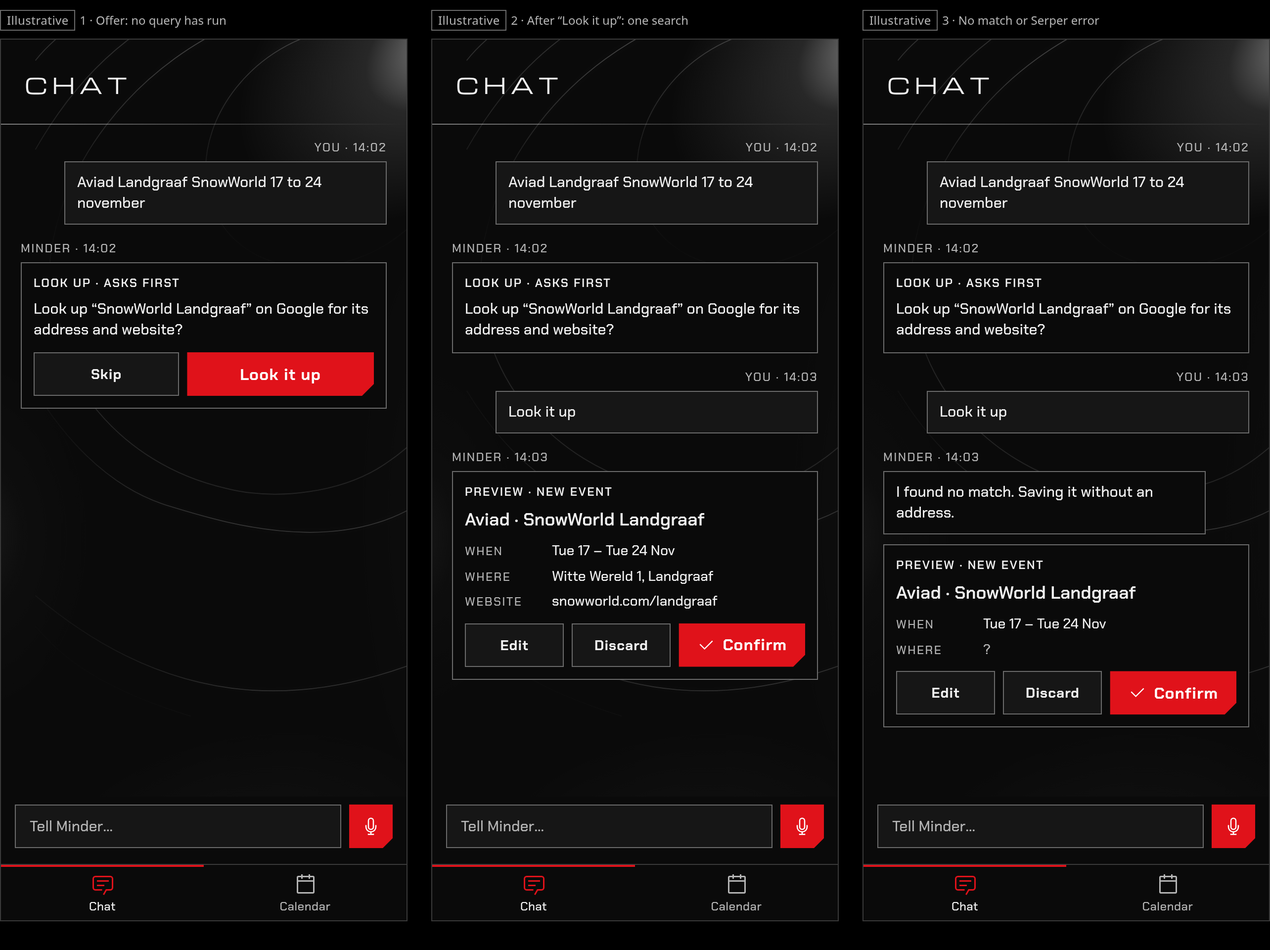
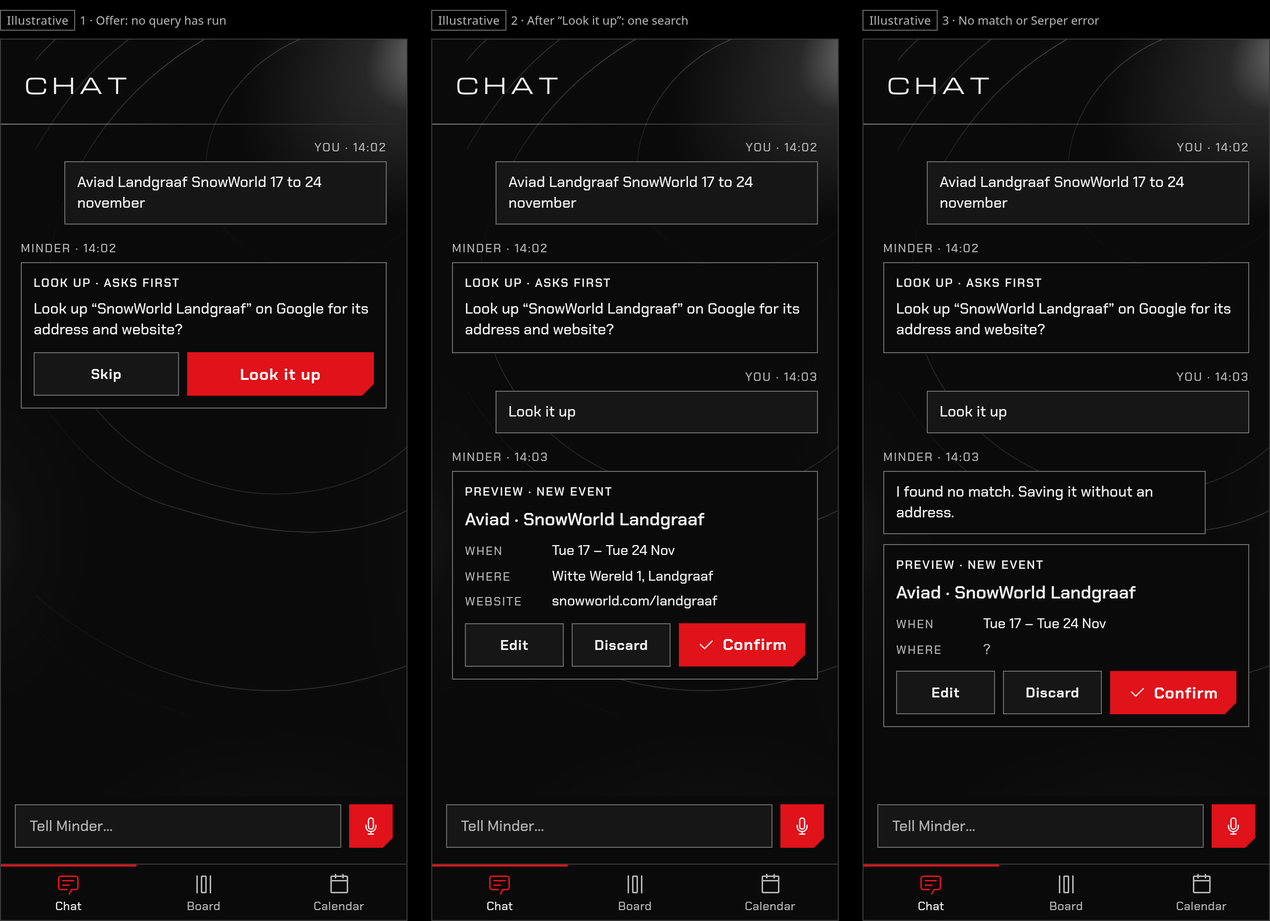
Replace the old Board mockup with the implemented board and add the Board tab to the bar mockups

diff --git a/docs/mockups/board.html b/docs/mockups/board.html
@@ -1,16 +1,17 @@
-<!doctype html><html lang="en"><head><meta charset="utf-8"><title>Minder · Board</title><link rel="stylesheet" href="common.css"></head><body><div class="page">
-<div class="ph"><div class="st"><span>07:30 · Wed 11 Nov</span><span class="demo">Illustrative</span></div>
-<div class="body">
-<div class="hd"><div class="ttl">Board</div><div class="ibtn"><i class="cb i-gear"></i></div></div>
-<div style="padding:12px 20px;display:flex;align-items:center;justify-content:space-between"><span class="chip">Filter<span class="dimt">· 0 active</span></span><span class="mut">13 items</span></div>
-<div style="padding:0 20px 12px"><div class="seg"><span class="on">To do 8</span><span>Doing 2</span><span>Done 3</span></div></div>
-<div class="kc od" style="margin:0 20px 8px"><div class="t">Pay tax bill</div><small>Mon 9 Nov 17:00<span class="pill od" style="margin-left:8px">Overdue 2 days</span></small><span class="lbl c-amber">Admin</span><div class="mvl" style="position:absolute;right:4px;bottom:4px"><i class="cb i-move"></i>Move to…</div></div>
-<div class="kc" style="margin:0 20px 8px"><div class="t">Call dentist</div><small>Wed 11 Nov 09:00</small><span class="lbl c-blue">Health</span><div class="mv"><i class="cb i-move"></i></div></div>
-<div class="kc" style="margin:0 20px 8px"><div class="t">Take out trash</div><small>Wed 11 Nov 17:00</small><span class="lbl c-green">Home</span><div class="mv"><i class="cb i-move"></i></div></div>
-<div class="kc" style="margin:0 20px 8px"><div class="t">Book flights to Lisbon</div><small>Wed 11 Nov 18:00</small><span class="lbl c-teal">Trip</span><div class="mv"><i class="cb i-move"></i></div></div>
-<div class="kc" style="margin:0 20px 8px"><div class="t">Buy card for Mum</div><small>Wed 11 Nov · All day</small><span class="lbl c-lilac">Family</span><div class="mv"><i class="cb i-move"></i></div></div>
-<div class="kc" style="margin:0 20px 8px"><div class="t">Book hotel</div><small>Sat 14 Nov 18:00</small><span class="lbl c-teal">Trip</span><div class="mv"><i class="cb i-move"></i></div></div>
-</div>
-<div class="cap"><div class="in">Tell Minder…</div><div class="mic"><i class="cb i-mic"></i></div></div>
-<div class="nav"><div><i class="cb i-home"></i>Today</div><div class="on"><i class="cb i-board"></i>Board</div><div><i class="cb i-cal"></i>Calendar</div><div><i class="cb i-list"></i>Lists</div></div></div>
-</div></body></html>
+<!doctype html>
+<html lang="en"><head><meta charset="utf-8"><meta name="viewport" content="width=device-width,initial-scale=1"><title>Minder · Board</title><link rel="stylesheet" href="common.css"></head>
+<body><div class="page"><div><div style="padding:8px 0"><span class="demo">Illustrative</span> <span class="note">1 · To pick up: add a task, then Start</span></div><div class="calendar-layout orbit-surface" aria-label="Board example"><svg xmlns="http://www.w3.org/2000/svg" viewBox="0 0 462 868" class="orbit-artwork orbit-calendar" preserveAspectRatio="xMidYMin slice" aria-hidden="true">
+<title>Minder calendar orbital artwork</title>
+<desc>Authored Bezier traces of visible curves in the approved Orbital reference. Travel highlights along the paths; keep the composition fixed.</desc>
+<defs><radialGradient id="atmosphere"><stop stop-color="#f2f2f2" stop-opacity="1" /><stop offset=".4" stop-color="#f2f2f2" stop-opacity=".22" /><stop offset="1" stop-color="#f2f2f2" stop-opacity="0" /></radialGradient><linearGradient id="edge-0" x1="0" y1="0" x2="0" y2="868" gradientUnits="userSpaceOnUse"><stop offset="0" stop-color="#f2f2f2" stop-opacity="0.168" /><stop offset="0.18" stop-color="#f2f2f2" stop-opacity="0.008" /><stop offset="0.45" stop-color="#f2f2f2" stop-opacity="0.032" /><stop offset="0.58" stop-color="#f2f2f2" stop-opacity="0.22" /><stop offset="0.68" stop-color="#f2f2f2" stop-opacity="0.14" /><stop offset="0.75" stop-color="#f2f2f2" stop-opacity="0.032" /><stop offset="1" stop-color="#f2f2f2" stop-opacity="0.04" /></linearGradient><linearGradient id="edge-1" x1="0" y1="0" x2="0" y2="868" gradientUnits="userSpaceOnUse"><stop offset="0" stop-color="#f2f2f2" stop-opacity="0.16" /><stop offset="0.22" stop-color="#f2f2f2" stop-opacity="0.02" /><stop offset="0.75" stop-color="#f2f2f2" stop-opacity="0.008" /><stop offset="0.95" stop-color="#f2f2f2" stop-opacity="0.168" /><stop offset="1" stop-color="#f2f2f2" stop-opacity="0.088" /></linearGradient><linearGradient id="edge-2" x1="0" y1="0" x2="0" y2="868" gradientUnits="userSpaceOnUse"><stop offset="0" stop-color="#f2f2f2" stop-opacity="0.24" /><stop offset="0.2" stop-color="#f2f2f2" stop-opacity="0.01" /><stop offset="0.39" stop-color="#f2f2f2" stop-opacity="0.12" /><stop offset="0.52" stop-color="#f2f2f2" stop-opacity="0.112" /><stop offset="0.6" stop-color="#f2f2f2" stop-opacity="0.016" /><stop offset="1" stop-color="#f2f2f2" stop-opacity="0.004" /></linearGradient><linearGradient id="edge-3" x1="0" y1="0" x2="0" y2="868" gradientUnits="userSpaceOnUse"><stop offset="0" stop-color="#f2f2f2" stop-opacity="0.2" /><stop offset="0.12" stop-color="#f2f2f2" stop-opacity="0.08" /><stop offset="0.24" stop-color="#f2f2f2" stop-opacity="0.008" /><stop offset="0.28" stop-color="#f2f2f2" stop-opacity="0.052" /><stop offset="0.34" stop-color="#f2f2f2" stop-opacity="0.032" /><stop offset="0.4" stop-color="#f2f2f2" stop-opacity="0.004" /><stop offset="1" stop-color="#f2f2f2" stop-opacity="0" /></linearGradient><filter id="edge-softness" x="-30%" y="-30%" width="160%" height="160%"><feGaussianBlur stdDeviation="3.5" /></filter><linearGradient id="edge-4" x1="0" y1="0" x2="462" y2="0" gradientUnits="userSpaceOnUse"><stop offset="0" stop-color="#f2f2f2" stop-opacity="0.02" /><stop offset="0.28" stop-color="#f2f2f2" stop-opacity="0.048" /><stop offset="0.6" stop-color="#f2f2f2" stop-opacity="0.168" /><stop offset="1" stop-color="#f2f2f2" stop-opacity="0.14" /></linearGradient></defs>
+<rect width="462" height="868" fill="#0a0a0a" />
+<g id="atmosphere-lights"><ellipse cx="475" cy="0" rx="235" ry="145" transform="rotate(-35 475 0)" fill="url(#atmosphere)" opacity="0.58" /><ellipse cx="5" cy="490" rx="120" ry="180" transform="rotate(0 5 490)" fill="url(#atmosphere)" opacity="0.07" /><ellipse cx="275" cy="820" rx="220" ry="140" transform="rotate(-12 275 820)" fill="url(#atmosphere)" opacity=".10" /><ellipse cx="475" cy="470" rx="100" ry="320" transform="rotate(0 475 470)" fill="url(#atmosphere)" opacity="0.045" /></g>
+<g id="edge-glow" filter="url(#edge-softness)" opacity=".16" stroke-width="2"><use href="#track-0" /><use href="#track-1" /><use href="#track-2" /><use href="#track-3" /><use href="#track-4" /></g><g id="tracks" stroke-width=".85"><path id="track-0" d="M 97 0 C 60 22 23 48 0 80 M 0 477 C 27 525 74 591 145 615 C 216 639 367 690 462 574" fill="none" stroke="url(#edge-0)" /><path id="track-1" d="M 207 0 C 137 18 61 70 0 187 M 0 760 C 30 799 72 835 170 868" fill="none" stroke="url(#edge-1)" /><path id="track-2" d="M 462 85 C 417 25 335 -5 244 25 C 111 76 15 214 15 345 C 15 458 92 565 208 594 C 265 610 337 599 383 565 C 416 541 443 508 462 477" fill="none" stroke="url(#edge-2)" /><path id="track-3" d="M 463.447 147.060 C 469.336 223.763 412.221 302.715 335.877 323.404 C 259.533 344.093 192.871 298.686 186.982 221.983 C 181.093 145.280 238.208 66.329 314.552 45.639 C 390.896 24.950 457.559 70.357 463.447 147.060 Z" fill="none" stroke="url(#edge-3)" /><path id="track-4" d="M 0 723.132 C 154 865.851 308 862.231 462 782.953" fill="none" stroke="url(#edge-4)" /></g>
+<g class="orbit-travel"><path id="travel-calendar-0" d="M 97 0 C 60 22 23 48 0 80 M 0 477 C 27 525 74 591 145 615 C 216 639 367 690 462 574" fill="none" stroke="#f2f2f2" stroke-width="1.1" opacity=".128" pathLength="1000" stroke-dasharray="35 965" style="animation-delay:-0s" /><path id="travel-calendar-1" d="M 207 0 C 137 18 61 70 0 187 M 0 760 C 30 799 72 835 170 868" fill="none" stroke="#f2f2f2" stroke-width="1.1" opacity=".128" pathLength="1000" stroke-dasharray="35 965" style="animation-delay:-36s" /><path id="travel-calendar-2" d="M 462 85 C 417 25 335 -5 244 25 C 111 76 15 214 15 345 C 15 458 92 565 208 594 C 265 610 337 599 383 565 C 416 541 443 508 462 477" fill="none" stroke="#f2f2f2" stroke-width="1.1" opacity=".128" pathLength="1000" stroke-dasharray="35 965" style="animation-delay:-72s" /><path id="travel-calendar-3" d="M 463.447 147.060 C 469.336 223.763 412.221 302.715 335.877 323.404 C 259.533 344.093 192.871 298.686 186.982 221.983 C 181.093 145.280 238.208 66.329 314.552 45.639 C 390.896 24.950 457.559 70.357 463.447 147.060 Z" fill="none" stroke="#f2f2f2" stroke-width="1.1" opacity=".128" pathLength="1000" stroke-dasharray="35 965" style="animation-delay:-108s" /><path id="travel-calendar-4" d="M 0 723.132 C 154 865.851 308 862.231 462 782.953" fill="none" stroke="#f2f2f2" stroke-width="1.1" opacity=".128" pathLength="1000" stroke-dasharray="35 965" style="animation-delay:-144s" /></g></svg><div class="screen-header"><div class="screen-title">BOARD</div></div><div class="board-tabs"><span class="on"><b>To pick up</b><i>3</i></span><span class=""><b>In progress</b><i>1</i></span><span class=""><b>Done</b><i>1</i></span></div><div class="board-add">Add a task</div><div class="board-card"><span class="board-stripe c-slate"></span><div class="board-body"><div class="board-title">Call plumber</div><div class=board-facts><span>Priority 1</span><span>House</span></div><div class="board-act"><span class="cal-control">Start</span></div></div></div><div class="board-card"><span class="board-stripe c-slate"></span><div class="board-body"><div class="board-title">Order a new bike light</div><div class="board-act"><span class="cal-control">Start</span></div></div></div><div class="board-card"><span class="board-stripe c-teal"></span><div class="board-body"><div class="board-title">Ask the landlord about the broken window latch</div><div class=board-facts><span>Priority 3</span><span class="bell">Fri 20 Nov 09:00</span></div><div class="board-act"><span class="cal-control">Start</span></div></div></div><div class="nav three"><div><i class="cb i-chat"></i>Chat</div><div class="on"><i class="cb i-board"></i>Board</div><div><i class="cb i-cal"></i>Calendar</div></div></div></div><div><div style="padding:8px 0"><span class="demo">Illustrative</span> <span class="note">2 · In progress: after Start, with Undo</span></div><div class="calendar-layout orbit-surface" aria-label="Board example"><svg xmlns="http://www.w3.org/2000/svg" viewBox="0 0 462 868" class="orbit-artwork orbit-calendar" preserveAspectRatio="xMidYMin slice" aria-hidden="true">
+<title>Minder calendar orbital artwork</title>
+<desc>Authored Bezier traces of visible curves in the approved Orbital reference. Travel highlights along the paths; keep the composition fixed.</desc>
+<defs><radialGradient id="atmosphere"><stop stop-color="#f2f2f2" stop-opacity="1" /><stop offset=".4" stop-color="#f2f2f2" stop-opacity=".22" /><stop offset="1" stop-color="#f2f2f2" stop-opacity="0" /></radialGradient><linearGradient id="edge-0" x1="0" y1="0" x2="0" y2="868" gradientUnits="userSpaceOnUse"><stop offset="0" stop-color="#f2f2f2" stop-opacity="0.168" /><stop offset="0.18" stop-color="#f2f2f2" stop-opacity="0.008" /><stop offset="0.45" stop-color="#f2f2f2" stop-opacity="0.032" /><stop offset="0.58" stop-color="#f2f2f2" stop-opacity="0.22" /><stop offset="0.68" stop-color="#f2f2f2" stop-opacity="0.14" /><stop offset="0.75" stop-color="#f2f2f2" stop-opacity="0.032" /><stop offset="1" stop-color="#f2f2f2" stop-opacity="0.04" /></linearGradient><linearGradient id="edge-1" x1="0" y1="0" x2="0" y2="868" gradientUnits="userSpaceOnUse"><stop offset="0" stop-color="#f2f2f2" stop-opacity="0.16" /><stop offset="0.22" stop-color="#f2f2f2" stop-opacity="0.02" /><stop offset="0.75" stop-color="#f2f2f2" stop-opacity="0.008" /><stop offset="0.95" stop-color="#f2f2f2" stop-opacity="0.168" /><stop offset="1" stop-color="#f2f2f2" stop-opacity="0.088" /></linearGradient><linearGradient id="edge-2" x1="0" y1="0" x2="0" y2="868" gradientUnits="userSpaceOnUse"><stop offset="0" stop-color="#f2f2f2" stop-opacity="0.24" /><stop offset="0.2" stop-color="#f2f2f2" stop-opacity="0.01" /><stop offset="0.39" stop-color="#f2f2f2" stop-opacity="0.12" /><stop offset="0.52" stop-color="#f2f2f2" stop-opacity="0.112" /><stop offset="0.6" stop-color="#f2f2f2" stop-opacity="0.016" /><stop offset="1" stop-color="#f2f2f2" stop-opacity="0.004" /></linearGradient><linearGradient id="edge-3" x1="0" y1="0" x2="0" y2="868" gradientUnits="userSpaceOnUse"><stop offset="0" stop-color="#f2f2f2" stop-opacity="0.2" /><stop offset="0.12" stop-color="#f2f2f2" stop-opacity="0.08" /><stop offset="0.24" stop-color="#f2f2f2" stop-opacity="0.008" /><stop offset="0.28" stop-color="#f2f2f2" stop-opacity="0.052" /><stop offset="0.34" stop-color="#f2f2f2" stop-opacity="0.032" /><stop offset="0.4" stop-color="#f2f2f2" stop-opacity="0.004" /><stop offset="1" stop-color="#f2f2f2" stop-opacity="0" /></linearGradient><filter id="edge-softness" x="-30%" y="-30%" width="160%" height="160%"><feGaussianBlur stdDeviation="3.5" /></filter><linearGradient id="edge-4" x1="0" y1="0" x2="462" y2="0" gradientUnits="userSpaceOnUse"><stop offset="0" stop-color="#f2f2f2" stop-opacity="0.02" /><stop offset="0.28" stop-color="#f2f2f2" stop-opacity="0.048" /><stop offset="0.6" stop-color="#f2f2f2" stop-opacity="0.168" /><stop offset="1" stop-color="#f2f2f2" stop-opacity="0.14" /></linearGradient></defs>
+<rect width="462" height="868" fill="#0a0a0a" />
+<g id="atmosphere-lights"><ellipse cx="475" cy="0" rx="235" ry="145" transform="rotate(-35 475 0)" fill="url(#atmosphere)" opacity="0.58" /><ellipse cx="5" cy="490" rx="120" ry="180" transform="rotate(0 5 490)" fill="url(#atmosphere)" opacity="0.07" /><ellipse cx="275" cy="820" rx="220" ry="140" transform="rotate(-12 275 820)" fill="url(#atmosphere)" opacity=".10" /><ellipse cx="475" cy="470" rx="100" ry="320" transform="rotate(0 475 470)" fill="url(#atmosphere)" opacity="0.045" /></g>
+<g id="edge-glow" filter="url(#edge-softness)" opacity=".16" stroke-width="2"><use href="#track-0" /><use href="#track-1" /><use href="#track-2" /><use href="#track-3" /><use href="#track-4" /></g><g id="tracks" stroke-width=".85"><path id="track-0" d="M 97 0 C 60 22 23 48 0 80 M 0 477 C 27 525 74 591 145 615 C 216 639 367 690 462 574" fill="none" stroke="url(#edge-0)" /><path id="track-1" d="M 207 0 C 137 18 61 70 0 187 M 0 760 C 30 799 72 835 170 868" fill="none" stroke="url(#edge-1)" /><path id="track-2" d="M 462 85 C 417 25 335 -5 244 25 C 111 76 15 214 15 345 C 15 458 92 565 208 594 C 265 610 337 599 383 565 C 416 541 443 508 462 477" fill="none" stroke="url(#edge-2)" /><path id="track-3" d="M 463.447 147.060 C 469.336 223.763 412.221 302.715 335.877 323.404 C 259.533 344.093 192.871 298.686 186.982 221.983 C 181.093 145.280 238.208 66.329 314.552 45.639 C 390.896 24.950 457.559 70.357 463.447 147.060 Z" fill="none" stroke="url(#edge-3)" /><path id="track-4" d="M 0 723.132 C 154 865.851 308 862.231 462 782.953" fill="none" stroke="url(#edge-4)" /></g>
+<g class="orbit-travel"><path id="travel-calendar-0" d="M 97 0 C 60 22 23 48 0 80 M 0 477 C 27 525 74 591 145 615 C 216 639 367 690 462 574" fill="none" stroke="#f2f2f2" stroke-width="1.1" opacity=".128" pathLength="1000" stroke-dasharray="35 965" style="animation-delay:-0s" /><path id="travel-calendar-1" d="M 207 0 C 137 18 61 70 0 187 M 0 760 C 30 799 72 835 170 868" fill="none" stroke="#f2f2f2" stroke-width="1.1" opacity=".128" pathLength="1000" stroke-dasharray="35 965" style="animation-delay:-36s" /><path id="travel-calendar-2" d="M 462 85 C 417 25 335 -5 244 25 C 111 76 15 214 15 345 C 15 458 92 565 208 594 C 265 610 337 599 383 565 C 416 541 443 508 462 477" fill="none" stroke="#f2f2f2" stroke-width="1.1" opacity=".128" pathLength="1000" stroke-dasharray="35 965" style="animation-delay:-72s" /><path id="travel-calendar-3" d="M 463.447 147.060 C 469.336 223.763 412.221 302.715 335.877 323.404 C 259.533 344.093 192.871 298.686 186.982 221.983 C 181.093 145.280 238.208 66.329 314.552 45.639 C 390.896 24.950 457.559 70.357 463.447 147.060 Z" fill="none" stroke="#f2f2f2" stroke-width="1.1" opacity=".128" pathLength="1000" stroke-dasharray="35 965" style="animation-delay:-108s" /><path id="travel-calendar-4" d="M 0 723.132 C 154 865.851 308 862.231 462 782.953" fill="none" stroke="#f2f2f2" stroke-width="1.1" opacity=".128" pathLength="1000" stroke-dasharray="35 965" style="animation-delay:-144s" /></g></svg><div class="screen-header"><div class="screen-title">BOARD</div></div><div class="board-tabs"><span class=""><b>To pick up</b><i>2</i></span><span class="on"><b>In progress</b><i>2</i></span><span class=""><b>Done</b><i>1</i></span></div><div class="board-card"><span class="board-stripe c-slate"></span><div class="board-body"><div class="board-title">Call plumber</div><div class=board-facts><span>Priority 1</span><span>House</span></div><div class="board-act"><span class="cal-control">Done</span></div></div></div><div class="board-card"><span class="board-stripe c-amber"></span><div class="board-body"><div class="board-title">Renew passport</div><div class="board-act"><span class="cal-control">Done</span></div></div></div><div class="board-snack"><span>Moved to In progress</span><b>Undo</b></div><div class="nav three"><div><i class="cb i-chat"></i>Chat</div><div class="on"><i class="cb i-board"></i>Board</div><div><i class="cb i-cal"></i>Calendar</div></div></div></div></div></body></html>

diff --git a/docs/mockups/place-lookup.html b/docs/mockups/place-lookup.html
@@ -19,7 +19,7 @@
 <div class="body"><div class="screen-header"><div class="screen-title">CHAT</div></div><div class="who me"><span>You · 14:02</span></div><div class="m me">Aviad Landgraaf SnowWorld 17 to 24 november</div><div class="who"><span>Minder · 14:02</span></div>
 <div class="card" style="margin:0 20px;background:var(--void)"><div class="lab">Look up · asks first</div><div style="font-size:15px;line-height:1.4;margin:8px 0 12px">Look up <q>SnowWorld Landgraaf</q> on Google for its address and website?</div><div class="btns"><div class="btn-2" style="height:44px">Skip</div><div class="btn-p" style="flex:1.3;height:44px">Look it up</div></div></div></div>
 <div class="cap composer"><div class="in">Tell Minder…</div><div class="mic"><i class="cb i-mic"></i></div></div>
-<div class="nav two"><div class="on"><i class="cb i-chat"></i>Chat</div><div><i class="cb i-cal"></i>Calendar</div></div></div></div><div><div style="padding:8px 0"><span class="demo">Illustrative</span> <span class="note">2 · After “Look it up”: one search</span></div><div class="ph orbit-surface"><svg xmlns="http://www.w3.org/2000/svg" viewBox="0 0 462 868" class="orbit-artwork orbit-chat" preserveAspectRatio="xMidYMin slice" aria-hidden="true">
+<div class="nav three"><div class="on"><i class="cb i-chat"></i>Chat</div><div><i class="cb i-board"></i>Board</div><div><i class="cb i-cal"></i>Calendar</div></div></div></div><div><div style="padding:8px 0"><span class="demo">Illustrative</span> <span class="note">2 · After “Look it up”: one search</span></div><div class="ph orbit-surface"><svg xmlns="http://www.w3.org/2000/svg" viewBox="0 0 462 868" class="orbit-artwork orbit-chat" preserveAspectRatio="xMidYMin slice" aria-hidden="true">
 <title>Minder chat orbital artwork</title>
 <desc>Authored Bezier traces of visible curves in the approved Orbital reference. Travel highlights along the paths; keep the composition fixed.</desc>
 <defs><radialGradient id="atmosphere"><stop stop-color="#f2f2f2" stop-opacity="1" /><stop offset=".4" stop-color="#f2f2f2" stop-opacity=".22" /><stop offset="1" stop-color="#f2f2f2" stop-opacity="0" /></radialGradient><linearGradient id="edge-0" x1="0" y1="0" x2="0" y2="868" gradientUnits="userSpaceOnUse"><stop offset="0" stop-color="#f2f2f2" stop-opacity="0.168" /><stop offset="0.18" stop-color="#f2f2f2" stop-opacity="0.008" /><stop offset="0.45" stop-color="#f2f2f2" stop-opacity="0.032" /><stop offset="0.58" stop-color="#f2f2f2" stop-opacity="0.22" /><stop offset="0.68" stop-color="#f2f2f2" stop-opacity="0.14" /><stop offset="0.75" stop-color="#f2f2f2" stop-opacity="0.032" /><stop offset="1" stop-color="#f2f2f2" stop-opacity="0.04" /></linearGradient><linearGradient id="edge-1" x1="0" y1="0" x2="0" y2="868" gradientUnits="userSpaceOnUse"><stop offset="0" stop-color="#f2f2f2" stop-opacity="0.16" /><stop offset="0.22" stop-color="#f2f2f2" stop-opacity="0.02" /><stop offset="0.75" stop-color="#f2f2f2" stop-opacity="0.008" /><stop offset="0.95" stop-color="#f2f2f2" stop-opacity="0.168" /><stop offset="1" stop-color="#f2f2f2" stop-opacity="0.088" /></linearGradient><linearGradient id="edge-2" x1="0" y1="0" x2="0" y2="868" gradientUnits="userSpaceOnUse"><stop offset="0" stop-color="#f2f2f2" stop-opacity="0.24" /><stop offset="0.2" stop-color="#f2f2f2" stop-opacity="0.01" /><stop offset="0.39" stop-color="#f2f2f2" stop-opacity="0.12" /><stop offset="0.52" stop-color="#f2f2f2" stop-opacity="0.112" /><stop offset="0.6" stop-color="#f2f2f2" stop-opacity="0.016" /><stop offset="1" stop-color="#f2f2f2" stop-opacity="0.004" /></linearGradient><linearGradient id="edge-3" x1="0" y1="0" x2="0" y2="868" gradientUnits="userSpaceOnUse"><stop offset="0" stop-color="#f2f2f2" stop-opacity="0.2" /><stop offset="0.12" stop-color="#f2f2f2" stop-opacity="0.08" /><stop offset="0.24" stop-color="#f2f2f2" stop-opacity="0.008" /><stop offset="0.28" stop-color="#f2f2f2" stop-opacity="0.052" /><stop offset="0.34" stop-color="#f2f2f2" stop-opacity="0.032" /><stop offset="0.4" stop-color="#f2f2f2" stop-opacity="0.004" /><stop offset="1" stop-color="#f2f2f2" stop-opacity="0" /></linearGradient><filter id="edge-softness" x="-30%" y="-30%" width="160%" height="160%"><feGaussianBlur stdDeviation="3.5" /></filter><linearGradient id="edge-4" x1="0" y1="0" x2="462" y2="0" gradientUnits="userSpaceOnUse"><stop offset="0" stop-color="#f2f2f2" stop-opacity="0.02" /><stop offset="0.28" stop-color="#f2f2f2" stop-opacity="0.048" /><stop offset="0.6" stop-color="#f2f2f2" stop-opacity="0.168" /><stop offset="1" stop-color="#f2f2f2" stop-opacity="0.14" /></linearGradient></defs>
@@ -36,7 +36,7 @@
 <div class="kv"><span>When</span><span>Tue 17 – Tue 24 Nov</span><span>Where</span><span>Witte Wereld 1, Landgraaf</span><span>Website</span><span>snowworld.com/landgraaf</span></div>
 <div class="btns"><div class="btn-2" style="height:44px">Edit</div><div class="btn-2" style="height:44px">Discard</div><div class="btn-p" style="flex:1.3;height:44px"><i class="cb i-check"></i>Confirm</div></div></div></div>
 <div class="cap composer"><div class="in">Tell Minder…</div><div class="mic"><i class="cb i-mic"></i></div></div>
-<div class="nav two"><div class="on"><i class="cb i-chat"></i>Chat</div><div><i class="cb i-cal"></i>Calendar</div></div></div></div><div><div style="padding:8px 0"><span class="demo">Illustrative</span> <span class="note">3 · No match or Serper error</span></div><div class="ph orbit-surface"><svg xmlns="http://www.w3.org/2000/svg" viewBox="0 0 462 868" class="orbit-artwork orbit-chat" preserveAspectRatio="xMidYMin slice" aria-hidden="true">
+<div class="nav three"><div class="on"><i class="cb i-chat"></i>Chat</div><div><i class="cb i-board"></i>Board</div><div><i class="cb i-cal"></i>Calendar</div></div></div></div><div><div style="padding:8px 0"><span class="demo">Illustrative</span> <span class="note">3 · No match or Serper error</span></div><div class="ph orbit-surface"><svg xmlns="http://www.w3.org/2000/svg" viewBox="0 0 462 868" class="orbit-artwork orbit-chat" preserveAspectRatio="xMidYMin slice" aria-hidden="true">
 <title>Minder chat orbital artwork</title>
 <desc>Authored Bezier traces of visible curves in the approved Orbital reference. Travel highlights along the paths; keep the composition fixed.</desc>
 <defs><radialGradient id="atmosphere"><stop stop-color="#f2f2f2" stop-opacity="1" /><stop offset=".4" stop-color="#f2f2f2" stop-opacity=".22" /><stop offset="1" stop-color="#f2f2f2" stop-opacity="0" /></radialGradient><linearGradient id="edge-0" x1="0" y1="0" x2="0" y2="868" gradientUnits="userSpaceOnUse"><stop offset="0" stop-color="#f2f2f2" stop-opacity="0.168" /><stop offset="0.18" stop-color="#f2f2f2" stop-opacity="0.008" /><stop offset="0.45" stop-color="#f2f2f2" stop-opacity="0.032" /><stop offset="0.58" stop-color="#f2f2f2" stop-opacity="0.22" /><stop offset="0.68" stop-color="#f2f2f2" stop-opacity="0.14" /><stop offset="0.75" stop-color="#f2f2f2" stop-opacity="0.032" /><stop offset="1" stop-color="#f2f2f2" stop-opacity="0.04" /></linearGradient><linearGradient id="edge-1" x1="0" y1="0" x2="0" y2="868" gradientUnits="userSpaceOnUse"><stop offset="0" stop-color="#f2f2f2" stop-opacity="0.16" /><stop offset="0.22" stop-color="#f2f2f2" stop-opacity="0.02" /><stop offset="0.75" stop-color="#f2f2f2" stop-opacity="0.008" /><stop offset="0.95" stop-color="#f2f2f2" stop-opacity="0.168" /><stop offset="1" stop-color="#f2f2f2" stop-opacity="0.088" /></linearGradient><linearGradient id="edge-2" x1="0" y1="0" x2="0" y2="868" gradientUnits="userSpaceOnUse"><stop offset="0" stop-color="#f2f2f2" stop-opacity="0.24" /><stop offset="0.2" stop-color="#f2f2f2" stop-opacity="0.01" /><stop offset="0.39" stop-color="#f2f2f2" stop-opacity="0.12" /><stop offset="0.52" stop-color="#f2f2f2" stop-opacity="0.112" /><stop offset="0.6" stop-color="#f2f2f2" stop-opacity="0.016" /><stop offset="1" stop-color="#f2f2f2" stop-opacity="0.004" /></linearGradient><linearGradient id="edge-3" x1="0" y1="0" x2="0" y2="868" gradientUnits="userSpaceOnUse"><stop offset="0" stop-color="#f2f2f2" stop-opacity="0.2" /><stop offset="0.12" stop-color="#f2f2f2" stop-opacity="0.08" /><stop offset="0.24" stop-color="#f2f2f2" stop-opacity="0.008" /><stop offset="0.28" stop-color="#f2f2f2" stop-opacity="0.052" /><stop offset="0.34" stop-color="#f2f2f2" stop-opacity="0.032" /><stop offset="0.4" stop-color="#f2f2f2" stop-opacity="0.004" /><stop offset="1" stop-color="#f2f2f2" stop-opacity="0" /></linearGradient><filter id="edge-softness" x="-30%" y="-30%" width="160%" height="160%"><feGaussianBlur stdDeviation="3.5" /></filter><linearGradient id="edge-4" x1="0" y1="0" x2="462" y2="0" gradientUnits="userSpaceOnUse"><stop offset="0" stop-color="#f2f2f2" stop-opacity="0.02" /><stop offset="0.28" stop-color="#f2f2f2" stop-opacity="0.048" /><stop offset="0.6" stop-color="#f2f2f2" stop-opacity="0.168" /><stop offset="1" stop-color="#f2f2f2" stop-opacity="0.14" /></linearGradient></defs>
@@ -54,4 +54,4 @@
 <div class="kv"><span>When</span><span>Tue 17 – Tue 24 Nov</span><span>Where</span><span style="color:var(--muted)">?</span></div>
 <div class="btns"><div class="btn-2" style="height:44px">Edit</div><div class="btn-2" style="height:44px">Discard</div><div class="btn-p" style="flex:1.3;height:44px"><i class="cb i-check"></i>Confirm</div></div></div></div>
 <div class="cap composer"><div class="in">Tell Minder…</div><div class="mic"><i class="cb i-mic"></i></div></div>
-<div class="nav two"><div class="on"><i class="cb i-chat"></i>Chat</div><div><i class="cb i-cal"></i>Calendar</div></div></div></div></div></body></html>
+<div class="nav three"><div class="on"><i class="cb i-chat"></i>Chat</div><div><i class="cb i-board"></i>Board</div><div><i class="cb i-cal"></i>Calendar</div></div></div></div></div></body></html>

diff --git a/docs/mockups/common.css b/docs/mockups/common.css
@@ -210,7 +210,7 @@ html,body{margin:0;background:#000}
 .calendar-layout{display:flex;flex-direction:column}
 .calendar-layout > .nav{margin:auto -24px -32px}
 .nav .cb{width:24px;height:24px}
-.nav.two div{padding:8px 0;gap:4px;line-height:12px}
+.nav.two div,.nav.three div{padding:8px 0;gap:4px;line-height:12px}
 
 /* Neutral content actions: shared with the approved Minder guide. */
 .content-action{display:inline-flex;align-items:center;gap:8px;min-height:44px;min-width:44px;padding:0;border:0;border-radius:0;background:transparent;color:var(--text);font:600 14px/1.4 'Chakra Petch',sans-serif;text-align:left;cursor:pointer}
@@ -235,3 +235,24 @@ html,body{margin:0;background:#000}
 .i-up{--u:url(https://cdn.jsdelivr.net/npm/@carbon/icons@11.92.0/svg/32/chevron--up.svg)}
 
 .content-tags{display:flex;gap:8px;flex-wrap:wrap;margin-top:8px}.content-tag{padding:3px 8px;border:1px solid var(--line);color:var(--muted);font-size:12px}
+
+/* Board: tabs, add field, task cards, Undo bar. Mirrors the Flutter BoardScreen under 720 px. */
+.calendar-layout .board-tabs{display:grid;grid-template-columns:repeat(3,minmax(0,1fr));margin-top:16px}
+.calendar-layout .board-tabs span{min-height:56px;display:flex;flex-direction:column;align-items:center;justify-content:center;gap:2px;border-bottom:1px solid var(--line);color:var(--muted)}
+.calendar-layout .board-tabs span.on{border-bottom:2px solid var(--signal);color:var(--text)}
+.calendar-layout .board-tabs b{font-size:12px;font-weight:600}
+.calendar-layout .board-tabs i{font-style:normal;font-size:16px}
+.calendar-layout .board-add{margin-top:16px;min-height:44px;display:flex;align-items:center;padding:0 14px;background:var(--panel);border:1px solid var(--edge);color:var(--dim);font-size:15px}
+.calendar-layout .board-card{display:flex;margin-top:8px;background:var(--panel);border:1px solid var(--line)}
+.calendar-layout .board-stripe{width:4px;flex:none}
+.calendar-layout .board-stripe.c-slate{background:#6f879f}.calendar-layout .board-stripe.c-teal{background:#34d1bf}.calendar-layout .board-stripe.c-amber{background:#e9a020}
+.calendar-layout .board-body{flex:1;min-width:0;padding:14px 12px 10px 16px}
+.calendar-layout .board-title{font-size:15px;line-height:1.4;font-weight:600}
+.calendar-layout .board-title.done{color:var(--muted);text-decoration:line-through}
+.calendar-layout .board-facts{display:flex;flex-wrap:wrap;gap:4px 12px;margin-top:6px;font-size:12px;color:var(--muted)}
+.calendar-layout .board-facts .bell:before{content:"\1F514\FE0E ";font-size:11px}
+.calendar-layout .board-act{display:flex;justify-content:flex-end;margin-top:8px}
+.calendar-layout .board-snack{position:absolute;left:0;right:0;bottom:56px;display:flex;align-items:center;justify-content:space-between;padding:0 16px;min-height:48px;background:var(--panel);border:1px solid var(--edge);font-size:15px}
+.calendar-layout .board-snack b{font-weight:700;padding:12px 8px}
+.calendar-layout:has(.board-snack){position:relative}
+.calendar-layout .board-act .cal-control{padding:0 16px;width:auto}

diff --git a/docs/mockups/calendar.html b/docs/mockups/calendar.html
@@ -57,6 +57,6 @@
   <div class="cal-day other"><div class="cal-face"><span class="cal-number">6</span><span class="cal-marker"></span></div></div>
  </div>
  <div class="cal-agenda"><div class="cal-agenda-header"><div class="cal-date">Thursday, 12 Nov</div><span class="cal-control cal-today">Today</span></div><div class="cal-event"><div class="cal-event-top"><div class="cal-time">09:00</div><span class="cal-control cal-delete" aria-label="Delete"><svg viewBox="0 0 24 24"><path d="M5 7h14M10 7V4h4v3M7 7l1 13h8l1-13M10 11v6M14 11v6"/></svg></span></div><div class="cal-event-title">Dentist</div><div class="content-tags"><span class="content-tag">30 min</span><span class="content-tag">Damrak 1</span></div><details class="cal-details"><summary class="content-disclosure"><span class="when-closed">Details</span><span class="when-open">Hide details</span><svg viewBox="0 0 24 24" aria-hidden="true"><path d="m6 9 6 6 6-6"/></svg></summary><dl class="content-fields"><dt>Starts</dt><dd>Thu 12 Nov · 09:00<span class="content-zone">Europe/Amsterdam</span></dd><dt>Ends</dt><dd>Thu 12 Nov · 09:30<span class="content-zone">Europe/Amsterdam</span></dd><dt>Duration</dt><dd>30 minutes</dd><dt>Type</dt><dd>Appointment</dd><dt>Address</dt><dd><a class="content-address" href="https://www.google.com/maps/search/?api=1&amp;query=Damrak%201"><span><span class="content-link">Damrak 1</span><span class="content-destination">Opens Google Maps</span></span><svg viewBox="0 0 24 24" aria-hidden="true"><path d="M8 5H5v14h14v-3M12 5h7v7M11 13l8-8"/></svg></a></dd><dt>Phone</dt><dd><a class="content-action content-link" href="tel:0201234567">020-1234567</a></dd><dt>Booking reference</dt><dd>00123456789</dd><dt>Notes</dt><dd>Bring ID.</dd><dt>Reminders</dt><dd>1 hour before</dd></dl></details></div></div>
-<div class="nav two"><div><i class="cb i-chat"></i>Chat</div><div class="on"><i class="cb i-cal"></i>Calendar</div></div>
+<div class="nav three"><div><i class="cb i-chat"></i>Chat</div><div><i class="cb i-board"></i>Board</div><div class="on"><i class="cb i-cal"></i>Calendar</div></div>
 </div>
 </div></div></body></html>

diff --git a/docs/mockups/chat.html b/docs/mockups/chat.html
@@ -39,5 +39,5 @@
 <div class="btns"><div class="btn-2" style="height:44px">Edit</div><div class="btn-2" style="height:44px">Discard</div><div class="btn-p" style="flex:1.3;height:44px"><i class="cb i-check"></i>Confirm</div></div></div>
 </div>
 <div class="cap composer"><div class="in">Tell Minder…</div><div class="mic"><i class="cb i-mic"></i></div></div>
-<div class="nav two"><div class="on"><i class="cb i-chat"></i>Chat</div><div><i class="cb i-cal"></i>Calendar</div></div>
+<div class="nav three"><div class="on"><i class="cb i-chat"></i>Chat</div><div><i class="cb i-board"></i>Board</div><div><i class="cb i-cal"></i>Calendar</div></div>
 </div></div></div></body></html>

diff --git a/docs/mockups/email-capture.html b/docs/mockups/email-capture.html
@@ -41,5 +41,5 @@
 </div>
 </div>
 <div class="cap composer"><div class="in" style="color:var(--text)">Tell Minder…</div><button class="btn-p" style="min-height:44px;padding:0 18px">Send</button></div>
-<div class="nav two"><div class="on"><i class="cb i-chat"></i>Chat</div><div><i class="cb i-cal"></i>Calendar</div></div>
+<div class="nav three"><div class="on"><i class="cb i-chat"></i>Chat</div><div><i class="cb i-board"></i>Board</div><div><i class="cb i-cal"></i>Calendar</div></div>
 </div></div></div></body></html>

diff --git a/docs/mockups/AGENTS.md b/docs/mockups/AGENTS.md
@@ -2,7 +2,7 @@
 
 ## Purpose
 
-- HTML phone mockups (412×892 portrait) of the chat and calendar layouts, with rendered PNGs
+- HTML phone mockups (412×892 portrait) of the chat, board and calendar layouts, with rendered PNGs
 
 ## Ownership
 
@@ -11,7 +11,8 @@
 - `place-lookup.html` and `place-lookup.png`: draft of the Serper place-lookup offer, result preview and no-match states; governed by `../superpowers/specs/2026-11-13-place-lookup-design.md`
 - `calendar.html` and `calendar.png`: the approved month grid and agenda layout. The illustrative marker sits above the app frame. The agenda card shows Delete and a neutral chevron disclosure, source-zone time rows, an address block with Maps destination and white note links. Shared `.content-*` rules match the canonical guide.
 - `calendar-events-review.html` and `.png`: pending approval, named coloured spanning events, week-boundary continuation, a party with Event/Starts/Ends and a plain Home location. The corrected draft uses shared styles and embedded Carbon 11.92.0 icons, the six existing label colours, editable details/agenda colour pickers and scripted chat creation/edit previews with Confirm and Discard. Governed by the approval draft in `../screens.md`; event colour is an owner-requested draft exception to the neutral palette. The approved app/calendar stays unchanged until approval.
-- `today`, `today-states`, `board`, `lists`, `item`, `profiles`, `assistant`, `settings`: design drafts that do not define current app behaviour. Use `../screens.md` and the Flutter calendar golden for the implemented calendar
+- `board.html` and `board.png`: the implemented Board for tasks without a date, two phones side by side (To pick up with the Add a task field and cards; In progress after Start with the Undo bar). Governed by `../superpowers/specs/2026-11-16-kanban-board-design.md`. Its `.board-*` styles live in `common.css` and mirror the Flutter `BoardScreen` under 720 px. The Flutter board golden records current rendering.
+- `today`, `today-states`, `lists`, `item`, `profiles`, `assistant`, `settings`: design drafts that do not define current app behaviour. Use `../screens.md` and the Flutter calendar golden for the implemented calendar
 - `common.css`: shared tokens and components for every mockup, including calendar layout and fixed orbital surfaces mirrored in the brand guide
 
 ## Local Contracts
@@ -21,7 +22,7 @@
 - Data is illustrative. Each mockup shows one `.demo` tag in its status bar, or above the Chat/Calendar frame. That tag is the only place the word "illustrative" appears in a mockup. Counts agree on every screen. Unknown details show as "?"
 - A file with two states shows two phones side by side (`lists`, `profiles`)
 - `toolchain/export-orbits.py` owns inline orbital SVGs from brand/orbital-*.svg. Regenerate them after source artwork edits.
-- Chat and Calendar share the screen-header styles and fading rule; neither shows a presence/status line or a header button. Both end with the shared `.nav` bar (Chat, Calendar).
+- Chat and Calendar share the screen-header styles and fading rule; neither shows a presence/status line or a header button. Chat, Board and Calendar end with the shared `.nav three` bar (Chat, Board, Calendar). `today`, `today-states` and `lists` keep their older four-item draft bar, and `calendar-events-review.html` keeps its own scripted bar until its approval.
 - Chat and Calendar have distinct fixed orbital compositions with travelling highlights. Capture stills with reduced motion; Flutter owns app lifecycle pauses.
 - Every PNG is re-rendered after its HTML or `common.css` changes
 

diff --git a/docs/screens.md b/docs/screens.md
@@ -90,7 +90,7 @@ Behaviour is in [calendar-spec.md](calendar-spec.md). The mockup is `mockups/cal
 
 ## Board
 
-Tasks with no date, in three columns: To pick up, In progress and Done. The screen header reads BOARD. On a phone a tab row shows each column name and count over one swipeable column; from 720 px wide the three columns sit side by side. The To pick up column starts with an Add a task field. A card has the item colour stripe, the title, priority, list and reminder time when set, and one button: Start, Done or Reopen. Tapping the card opens the task sheet with notes, contact fields, Move to the other columns and Delete. A move shows `Moved to <column>` with Undo and adds nothing to chat. A task that gains a date moves to the calendar. Done shows the last 14 days. No drag and drop. Design: [kanban-board design](superpowers/specs/2026-11-16-kanban-board-design.md).
+Mockup: [board.html](mockups/board.html), [board.png](mockups/board.png). Tasks with no date, in three columns: To pick up, In progress and Done. The screen header reads BOARD. On a phone a tab row shows each column name and count over one swipeable column; from 720 px wide the three columns sit side by side. The To pick up column starts with an Add a task field. A card has the item colour stripe, the title, priority, list and reminder time when set, and one button: Start, Done or Reopen. Tapping the card opens the task sheet with notes, contact fields, Move to the other columns and Delete. A move shows `Moved to <column>` with Undo and adds nothing to chat. A task that gains a date moves to the calendar. Done shows the last 14 days. No drag and drop. Design: [kanban-board design](superpowers/specs/2026-11-16-kanban-board-design.md).
 
 ## Open decisions
 
